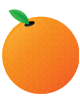
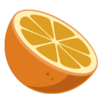
Fruit Images Changed
Changed the default images that represent the different fruits

diff --git a/Fruit Machine Game/Fruit Machine Game/MainGameScene.m b/Fruit Machine Game/Fruit Machine Game/MainGameScene.m
@@ -225,7 +225,7 @@ CGSize win;
 
 - (void) setRandomFruits:(int)reel {
     
-    int start = 0 + (NUMBER_OF_FRUITS * (reel-1));
+    int start = 0 + (numberOfFruits * (reel-1));
     
     int position = [self getRandomFruitPosition:start];
     
@@ -247,7 +247,7 @@ CGSize win;
         
         fruit = [fruits objectAtIndex:position++];
         
-        if (position >= (start + NUMBER_OF_FRUITS)) {
+        if (position >= (start + numberOfFruits)) {
             
             position = start;
         }
@@ -273,7 +273,7 @@ CGSize win;
         
         [self stopAllActions];
         
-        CCDelayTime *start = [CCDelayTime actionWithDuration:SPIN_RESET_TIME];
+        CCDelayTime *start = [CCDelayTime actionWithDuration:REEL_STOP_DELAY];
         
         CCCallBlock *stop = [CCCallBlockN actionWithBlock:^(CCNode *node) {
             
@@ -444,7 +444,7 @@ CGSize win;
     
     pointsLabel.position = ccp(win.width/2, win.height - (30 * iPadScaleFactor + iOS7ScaleFactor));
     
-    pointsLabel.color = ccBLACK;
+    pointsLabel.color = ccWHITE;//ccBLACK;
     
     [self addChild:pointsLabel];
     
@@ -492,7 +492,7 @@ CGSize win;
     
     
     
-    file = [NSString stringWithFormat:@"%@%@", @"betMin", [self getImageFileSuffix]];
+   /* file = [NSString stringWithFormat:@"%@%@", @"betMin", [self getImageFileSuffix]];
     
     CCMenuItem *betMin = [CCMenuItemImage itemWithNormalImage:file selectedImage:file target:self selector:@selector(betMin)];
     
@@ -503,12 +503,12 @@ CGSize win;
     
     CCMenuItem *betMax = [CCMenuItemImage itemWithNormalImage:file selectedImage:file target:self selector:@selector(betMax)];
     
-    betMax.position = ccp(betMin.position.x, betMin.position.y + 55);
+    betMax.position = ccp(betMin.position.x, betMin.position.y + 55);*/
     
     
     
     
-    CCMenu *menu = [CCMenu menuWithItems:returnButton, betMin, betMax, nil];
+    CCMenu *menu = [CCMenu menuWithItems:returnButton,nil];//, betMin, betMax, nil];
     menu.position = CGPointZero;
     
     [self addChild:menu];

diff --git a/Fruit Machine Game/Fruit Machine Game/AppDelegate.m b/Fruit Machine Game/Fruit Machine Game/AppDelegate.m
@@ -48,7 +48,7 @@
 	if(director.runningScene == nil) {
 		// Add the first scene to the stack. The director will draw it immediately into the framebuffer. (Animation is started automatically when the view is displayed.)
 		// and add the scene to the stack. The director will run it when it automatically when the view is displayed.
-		[director runWithScene: [MainMenu scene]];
+		[director runWithScene: [MainGameScene scene]];
 	}
 }
 @end

diff --git a/Fruit Machine Game/Fruit Machine Game/Config.h b/Fruit Machine Game/Fruit Machine Game/Config.h
@@ -12,8 +12,6 @@
 
 #define STOP_ANIMATION_Y_MOVEMENT 6
 
-#define SPIN_RESET_TIME 0.15
-
 #define NUMBER_OF_REELS 3
 #define NUMBER_OF_FRUITS 7
 #define NUMBER_OF_ROWS 3
